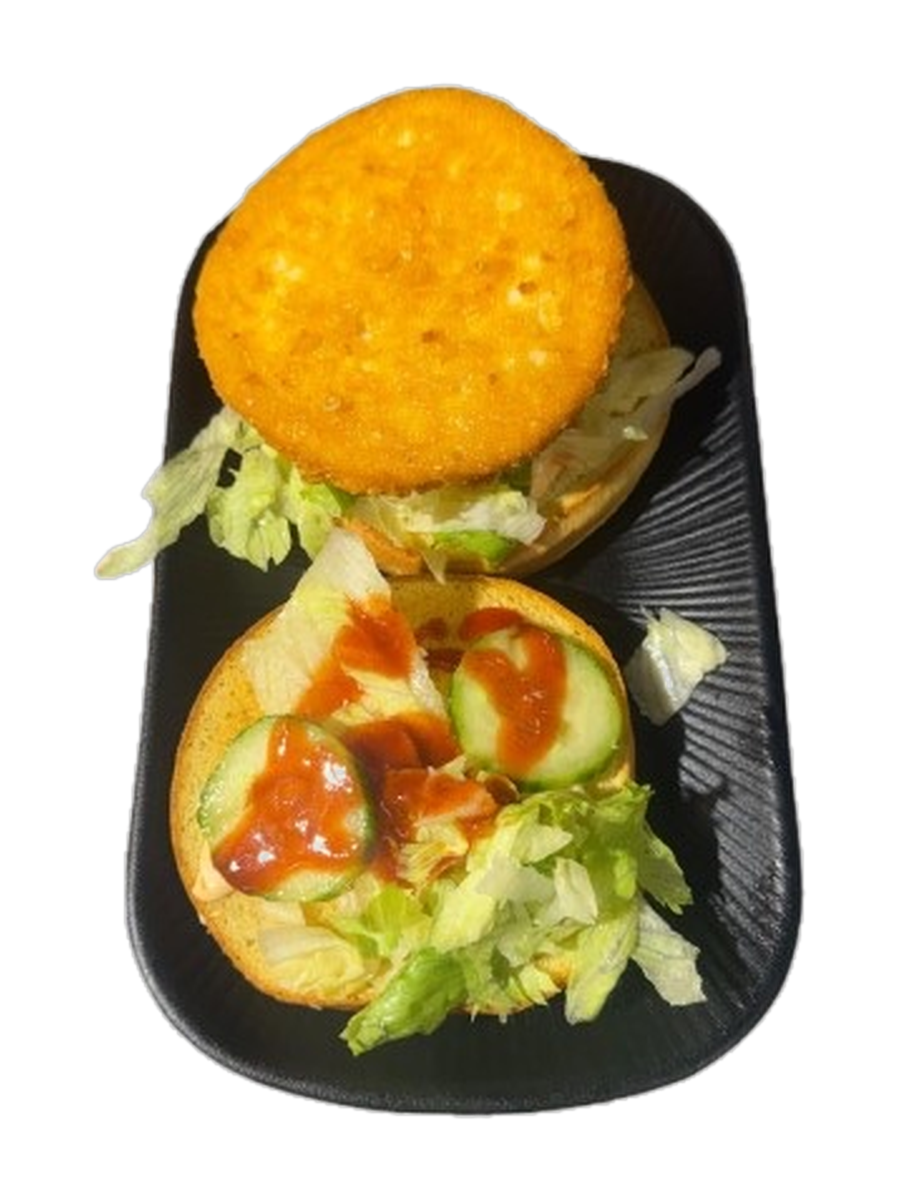
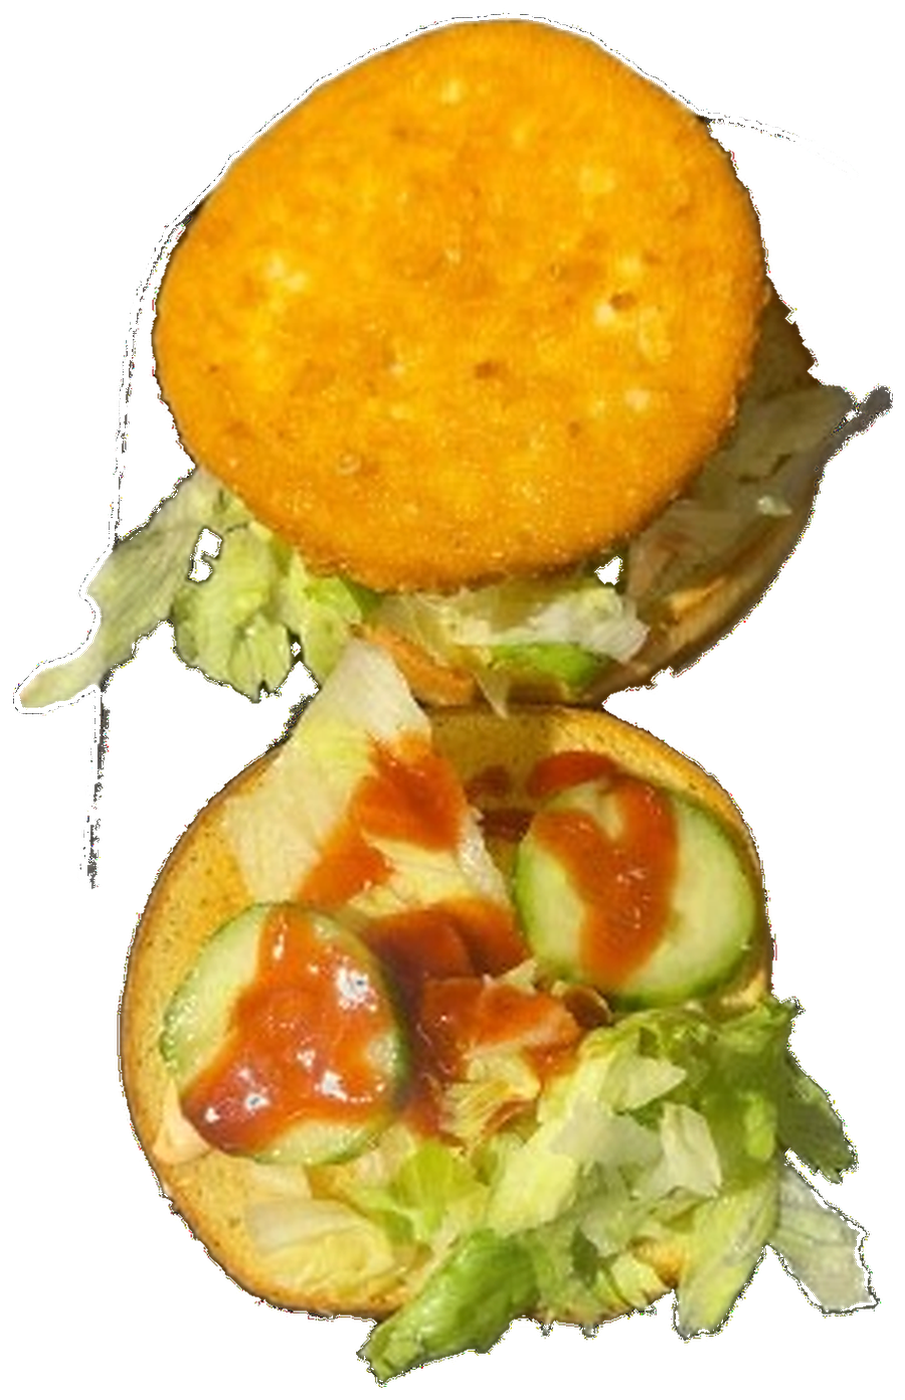
Hide #81 photo; plate-free #758 open secondary and #58 cutout.
Force Spezial Menü to showImage false, wire Chili Burger open slide into the gallery with plate stripped, and replace Big Cheeseburger #58 with a plate-free asset.

diff --git a/lib/menu-item-photo-versions.ts b/lib/menu-item-photo-versions.ts
@@ -1,16 +1,16 @@
 // Generated by scripts/generate-photo-versions.mjs — do not edit
 export const menuItemPhotoVersions: Record<string, string> = {
-  '/essen/halbeshaehnchen1-nobg.png': '1795119397360',
+  '/essen/halbeshaehnchen1-nobg.png': '1795122008602',
   '/essen/haehnchenspezial80.png': '1795032510583',
-  '/essen/halbespommes2-nobg.png': '1795119397376',
+  '/essen/halbespommes2-nobg.png': '1795122008606',
   '/essen/ganzgrillhaehnchen111.png': '1795032510579',
-  '/essen/schnitzel5-nobg.png': '1795119397388',
-  '/essen/schnitzel7-nobg.png': '1795119397404',
-  '/essen/schaschlik12-nobg.png': '1795119397380',
-  '/essen/currywurst14-nobg.png': '1795119397360',
+  '/essen/schnitzel5-nobg.png': '1795122008614',
+  '/essen/schnitzel7-nobg.png': '1795122008618',
+  '/essen/schaschlik12-nobg.png': '1795122008614',
+  '/essen/currywurst14-nobg.png': '1795122008602',
   '/essen/schnitzel116-nobg.png': '1795032510527',
-  '/essen/schnitzel117-nobg.png': '1795119397380',
-  '/essen/schnitzel213-nobg.png': '1795119397388',
+  '/essen/schnitzel117-nobg.png': '1795122008614',
+  '/essen/schnitzel213-nobg.png': '1795122008614',
   '/essen/falafelteller404-nobg.png': '1795032510567',
   '/essen/putensteak54.png': '1795032510491',
   '/essen/gyrosteller110-removebg-preview.png': '1795032510583',
@@ -20,12 +20,12 @@ export const menuItemPhotoVersions: Record<string, string> = {
   '/essen/grillplatter666-removebg-preview-removebg-preview.png': '1795032510579',
   '/essen/hotdog4.png': '1795032510591',
   '/essen/chickenburger51-nobg.png': '1795032510527',
-  '/essen/bigcheeseburger58-removebg-preview-removebg-preview.png': '1795032510495',
+  '/essen/bigcheeseburger58-nobg.png': '1795123704801',
   '/essen/chiliburger455-nobg.png': '1795032510531',
-  '/essen/chiliburger758-nobg.png': '1795120078545',
+  '/essen/chiliburger758-nobg.png': '1795122008598',
   '/essen/kebabburger658-nobg.png': '1795032510599',
   '/essen/gyrospita127.png': '1795032510583',
-  '/essen/croquehawaii63-nobg.png': '1795119397412',
+  '/essen/croquehawaii63-nobg.png': '1795122008602',
   '/essen/croquegyros68.png': '1795032510531',
   '/essen/bolognese49.png': '1795032510495',
   '/essen/makaronipfanne249.png': '1795032510607',
@@ -46,4 +46,5 @@ export const menuItemPhotoVersions: Record<string, string> = {
   '/essen/grosserchefsalat44.png': '1795032510583',
   '/essen/grosserfitnesssalat144.png': '1795032510583',
   '/essen/grosserweisskaesesalat444.png': '1795032510583',
+  '/essen/chiliburger758-open-nobg.png': '1795123679133',
 }

diff --git a/lib/cutout-photo-metrics.ts b/lib/cutout-photo-metrics.ts
@@ -22,7 +22,7 @@ export const cutoutPhotoMetrics: Record<string, CutoutPhotoMetrics> = {
   '/essen/grillplatter666-removebg-preview-removebg-preview.png': { scale: 1.18, shiftX: '0.1%', shiftY: '-2.2%' },
   '/essen/hotdog4.png': { scale: 0.911, shiftX: '0.5%', shiftY: '-10.6%' },
   '/essen/chickenburger51-nobg.png': { scale: 1.08, shiftX: '0.8%', shiftY: '8.1%' },
-  '/essen/bigcheeseburger58-removebg-preview-removebg-preview.png': { scale: 1.213, shiftX: '1.8%', shiftY: '-3.6%' },
+  '/essen/bigcheeseburger58-nobg.png': { scale: 0.88, shiftX: '0.1%', shiftY: '0.1%' },
   '/essen/chiliburger455-nobg.png': { scale: 1.262, shiftX: '2.4%', shiftY: '2.3%' },
   '/essen/chiliburger758-nobg.png': { scale: 0.88, shiftX: '0%', shiftY: '0.1%' },
   '/essen/kebabburger658-nobg.png': { scale: 1.23, shiftX: '1%', shiftY: '-3.3%' },
@@ -48,5 +48,6 @@ export const cutoutPhotoMetrics: Record<string, CutoutPhotoMetrics> = {
   '/essen/grosserchefsalat44.png': { scale: 1.28, shiftX: '-0.9%', shiftY: '2.3%' },
   '/essen/grosserfitnesssalat144.png': { scale: 0.88, shiftX: '-0.7%', shiftY: '-0.3%' },
   '/essen/grosserweisskaesesalat444.png': { scale: 0.986, shiftX: '-4.1%', shiftY: '-9.5%' },
+  '/essen/chiliburger758-open-nobg.png': { scale: 0.88, shiftX: '0.1%', shiftY: '0%' },
   '/essen/rotegruetzemitvanillensauce-removebg-preview.png': { scale: 0.919, shiftX: '0.1%', shiftY: '5.7%' },
 }

diff --git a/lib/menu-data.ts b/lib/menu-data.ts
@@ -235,7 +235,7 @@ export const staticMenuCategories: MenuCategory[] = [
     items: [
       { id: '357', name: 'Fischburger Menü', desc: 'Ketchup / Mayo zur Wahl', price: 10.0 },
       { id: '3', name: '1/2 Hähnchen Menü', desc: 'Ketchup / Mayo zur Wahl', price: 12.5 },
-      { id: '81', name: '1/2 Grill Hähnchen Spezial Menü', desc: 'Ketchup / Mayo zur Wahl', price: 14.0, tags: ['Gluten'] },
+      { id: '81', name: '1/2 Grill Hähnchen Spezial Menü', desc: 'Ketchup / Mayo zur Wahl', price: 14.0, tags: ['Gluten'], showImage: false },
       { id: '314', name: 'XXL Currywurst Menü', desc: 'Ketchup / Mayo zur Wahl', price: 10.0 },
       { id: '310', name: 'Gyros Teller Menü', desc: 'Ketchup / Mayo zur Wahl', price: 14.0 },
       { id: '255', name: 'Hamburger Menü', desc: 'Ketchup / Mayo zur Wahl', price: 10.0 },

diff --git a/lib/menu-item-photos.ts b/lib/menu-item-photos.ts
@@ -24,7 +24,7 @@ export const menuItemPhotos: Record<string, string> = {
   // Snacks
   '4': '/essen/hotdog4.png',
   '51': '/essen/chickenburger51-nobg.png',
-  '58': '/essen/bigcheeseburger58-removebg-preview-removebg-preview.png',
+  '58': '/essen/bigcheeseburger58-nobg.png',
   '455': '/essen/chiliburger455-nobg.png',
   '758': '/essen/chiliburger758-nobg.png',
   '658': '/essen/kebabburger658-nobg.png',
@@ -65,6 +65,7 @@ export const menuItemPhotos: Record<string, string> = {
  * Only items listed here get left/right arrows in the item modal.
  */
 export const menuItemPhotoExtras: Record<string, string[]> = {
+  '758': ['/essen/chiliburger758-open-nobg.png'],
 }
 
 import { cutoutPhotoMetrics, type CutoutPhotoMetrics } from '@/lib/cutout-photo-metrics'
